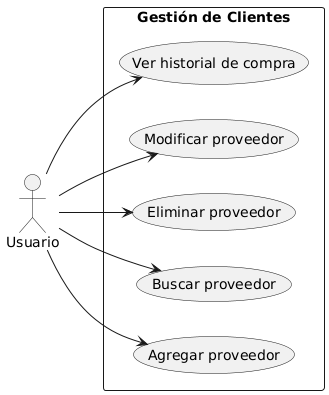
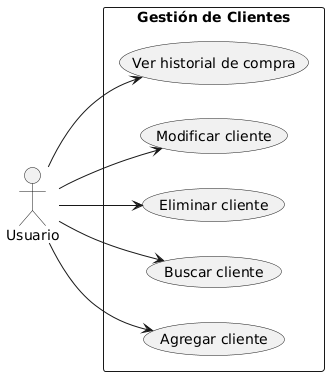
Fin proveedores

diff --git a/Especificaciones de casos de uso/Proveedores/Agregar proveedor.md b/Especificaciones de casos de uso/Proveedores/Agregar proveedor.md
@@ -1,0 +1,26 @@
+# CASO DE USO: Agregar proveedor
+**ACTORES**  
+Usuario del sistema
+
+**PRECONDICIONES**  
+1. Estar autenticado en el sistema  
+2. Acceder al menú "Gestión de Proveedores"
+
+**REQUERIMIENTOS**  
+1. Validar formato de CUIT/DNI según normas tributarias  
+2. Verificar unicidad del CUIT/DNI en el sistema  
+3. Campos obligatorios: Nombre (mín. 5 caracteres), Teléfono (formato numérico), CUIT/DNI
+
+**FLUJO NORMAL**  
+1. Sistema muestra formulario con campos: Nombre, Teléfono, CUIT/DNI  
+2. Usuario completa datos y presiona "Guardar"  
+3. Sistema valida formato y unicidad del CUIT/DNI  
+4. Sistema registra proveedor y muestra mensaje de confirmación
+
+**FLUJO ALTERNATIVO**  
+2.1. Usuario cancela operación con botón "Cancelar"  
+3.1. Datos incompletos/inválidos → Sistema muestra errores específicos  
+3.2. CUIT/DNI existente → Sistema alerta "Proveedor ya registrado"
+
+**POSTCONDICIONES**  
+Nuevo proveedor queda registrado en la base de datos

diff --git a/Especificaciones de casos de uso/Proveedores/consultar_cliente.md b/Especificaciones de casos de uso/Proveedores/consultar_cliente.md
@@ -1,0 +1,24 @@
+# CASO DE USO: Consultar cliente
+
+## ACTORES
+- Usuario
+
+## PRECONDICIONES
+- Estar logueado al sistema
+- Encontrarse en la pantalla usuarios
+
+## REQUERIMIENTOS
+- El sistema debe facilitar la busqueda de cada cliente
+
+## FLUJO NORMAL
+1- El sistema muestra una pantalla con los datos de los clientes ya precargados
+2- El usuario introduce el nombre del cliente que desea buscar, luego hace click en el boton buscar
+3- El sistema filtra a los clientes que tengan ese nombre y muestra una tabla con los clientes que contienen ese nombre
+
+## FLUJO ALTERNATIVO
+1-* El usuario puede cancelar la operacion haciendo click en el boton "Salir"
+3.1. El sistema no encuentra ningun cliente con ese nombre y muestra un cartel, donde informa que no hay clientes con ese nombre
+
+## POSTCONDICIONES
+- El cliente fue consultado
+

diff --git a/Especificaciones de casos de uso/Proveedores/Consultar historial de compras.md b/Especificaciones de casos de uso/Proveedores/Consultar historial de compras.md
@@ -1,0 +1,24 @@
+# CASO DE USO: Ver historial de compras  
+**ACTORES**  
+Usuario con rol de compras
+
+**PRECONDICIONES**  
+1. Proveedor seleccionado en listado  
+2. Historial disponible en los últimos 5 años
+
+**REQUERIMIENTOS**  
+1. Visualización cronológica inversa (últimas primero)  
+2. Filtros por: período, monto mínimo, tipo de producto  
+3. Exportación a PDF/Excel
+
+**FLUJO NORMAL**  
+1. Usuario selecciona "Ver Historial" en registro  
+2. Sistema muestra tabla con: Fecha, Producto, Cantidad, Monto, N° Factura  
+3. Usuario aplica filtros y ordena columnas
+
+**FLUJO ALTERNATIVO**  
+2.1. Sin operaciones registradas → Muestra gráfico vacío con leyenda  
+3.1. Selecciona factura → Muestra detalle ampliado
+
+**POSTCONDICIONES**  
+Consulta registrada en auditoría de acceso

diff --git a/Especificaciones de casos de uso/Proveedores/Modificar proveedor.md b/Especificaciones de casos de uso/Proveedores/Modificar proveedor.md
@@ -1,0 +1,24 @@
+# CASO DE USO: Modificar proveedor  
+**ACTORES**  
+Usuario autorizado
+
+**PRECONDICIONES**  
+1. Proveedor existente en el sistema  
+2. Sin modificaciones pendientes de aprobación
+
+**REQUERIMIENTOS**  
+1. Histórico de cambios con versión anterior y nueva  
+2. Bloqueo de edición concurrente
+
+**FLUJO NORMAL**  
+1. Usuario selecciona "Editar" en registro  
+2. Sistema muestra formulario con datos actuales  
+3. Usuario modifica campos permitidos y guarda  
+4. Sistema registra nueva versión y notifica actualización
+
+**FLUJO ALTERNATIVO**  
+3.1. Campos obligatorios vacíos → Resalta campos faltantes  
+3.2. Otro usuario editando → Muestra "Registro en edición por [usuario]"
+
+**POSTCONDICIONES**  
+Datos actualizados con marca temporal de modificación

diff --git a/Especificaciones de casos de uso/Proveedores/Eliminar proveedor.md b/Especificaciones de casos de uso/Proveedores/Eliminar proveedor.md
@@ -1,0 +1,24 @@
+# CASO DE USO: Eliminar proveedor  
+**ACTORES**  
+Usuario administrador
+
+**PRECONDICIONES**  
+1. Proveedor sin compras registradas en últimos 6 meses  
+2. Proveedor seleccionado en listado
+
+**REQUERIMIENTOS**  
+1. Validar historial de compras asociado  
+2. Registro de auditoría con usuario y fecha de eliminación
+
+**FLUJO NORMAL**  
+1. Usuario selecciona "Eliminar" en registro  
+2. Sistema muestra confirmación con datos del proveedor  
+3. Usuario confirma eliminación  
+4. Sistema desactiva proveedor (borrado lógico)
+
+**FLUJO ALTERNATIVO**  
+2.1. Usuario cancela → Vuelve al listado  
+3.1. Proveedor con compras activas → Muestra "No se puede eliminar por historial existente"
+
+**POSTCONDICIONES**  
+Proveedor marcado como inactivo en el sistema

diff --git a/Especificaciones de casos de uso/Proveedores/Buscar proveedor.md b/Especificaciones de casos de uso/Proveedores/Buscar proveedor.md
@@ -1,0 +1,23 @@
+# CASO DE USO: Buscar proveedor  
+**ACTORES**  
+Usuario
+
+**PRECONDICIONES**  
+1. Tener permisos de consulta  
+2. Estar en la pantalla "Listado de Proveedores"
+
+**REQUERIMIENTOS**  
+1. Búsqueda por: Nombre (coincidencia parcial), CUIT/DNI (exacto)  
+2. Resultados en tabla con columnas: Nombre, Teléfono, CUIT/DNI, Última compra
+
+**FLUJO NORMAL**  
+1. Sistema muestra campo de búsqueda y tabla vacía  
+2. Usuario ingresa criterios y presiona "Buscar"  
+3. Sistema filtra proveedores y muestra resultados paginados
+
+**FLUJO ALTERNATIVO**  
+2.1. Usuario vacía criterios → Sistema muestra últimos 20 registros  
+3.1. Sin resultados → Muestra "No se encontraron proveedores"
+
+**POSTCONDICIONES**  
+Listado actualizado según criterios de búsqueda
